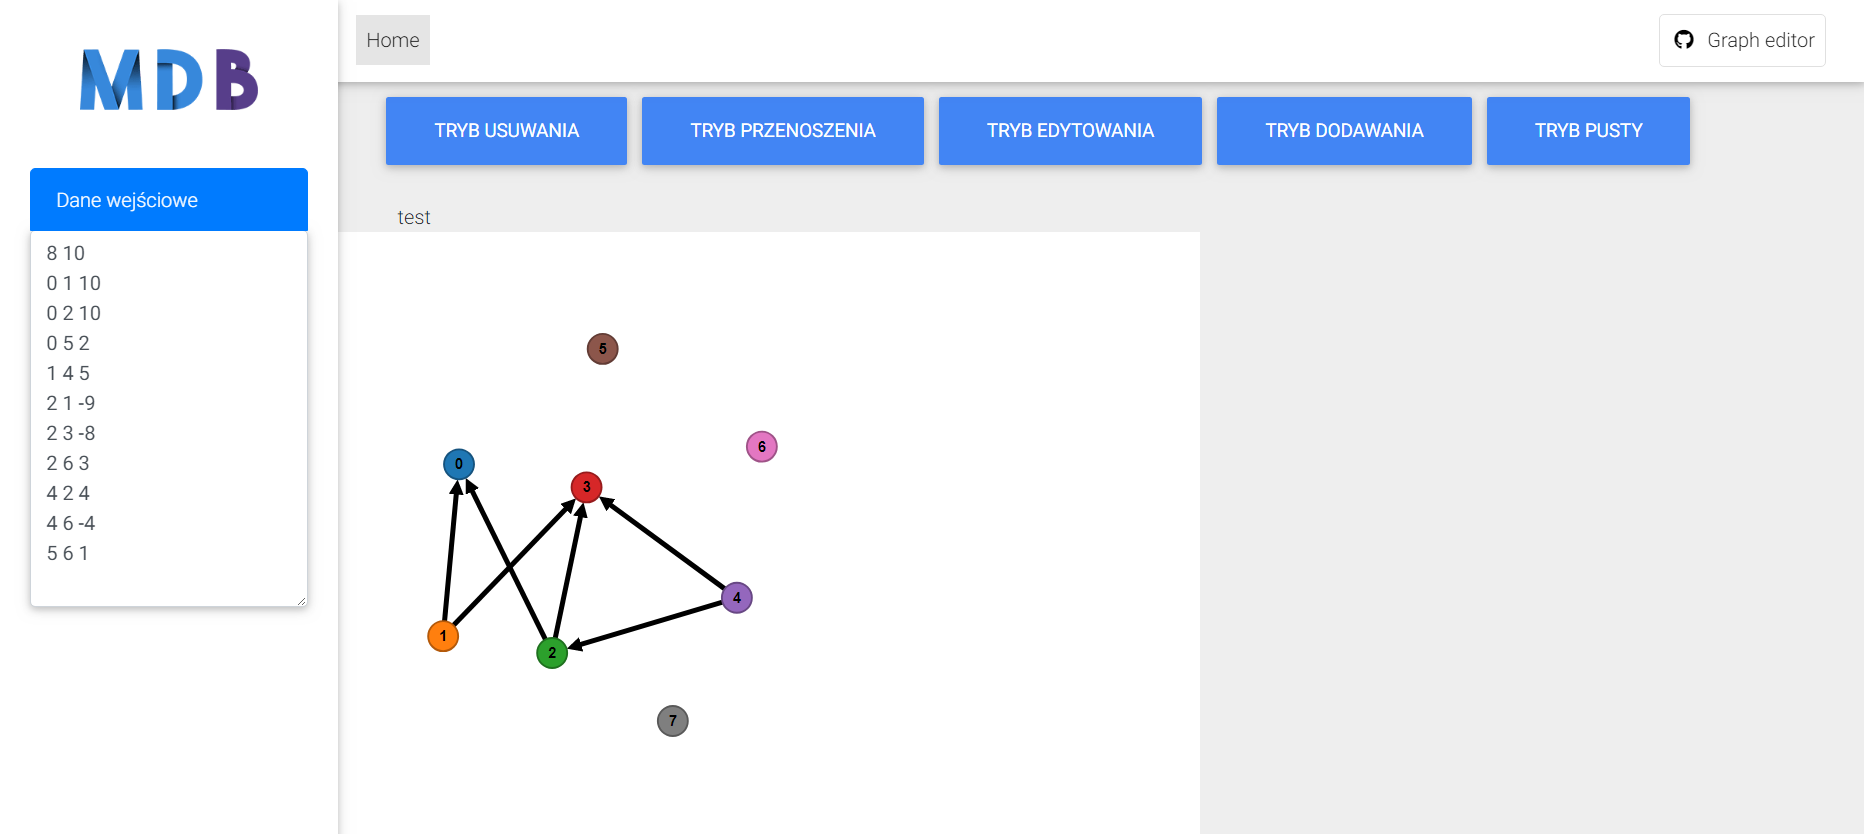
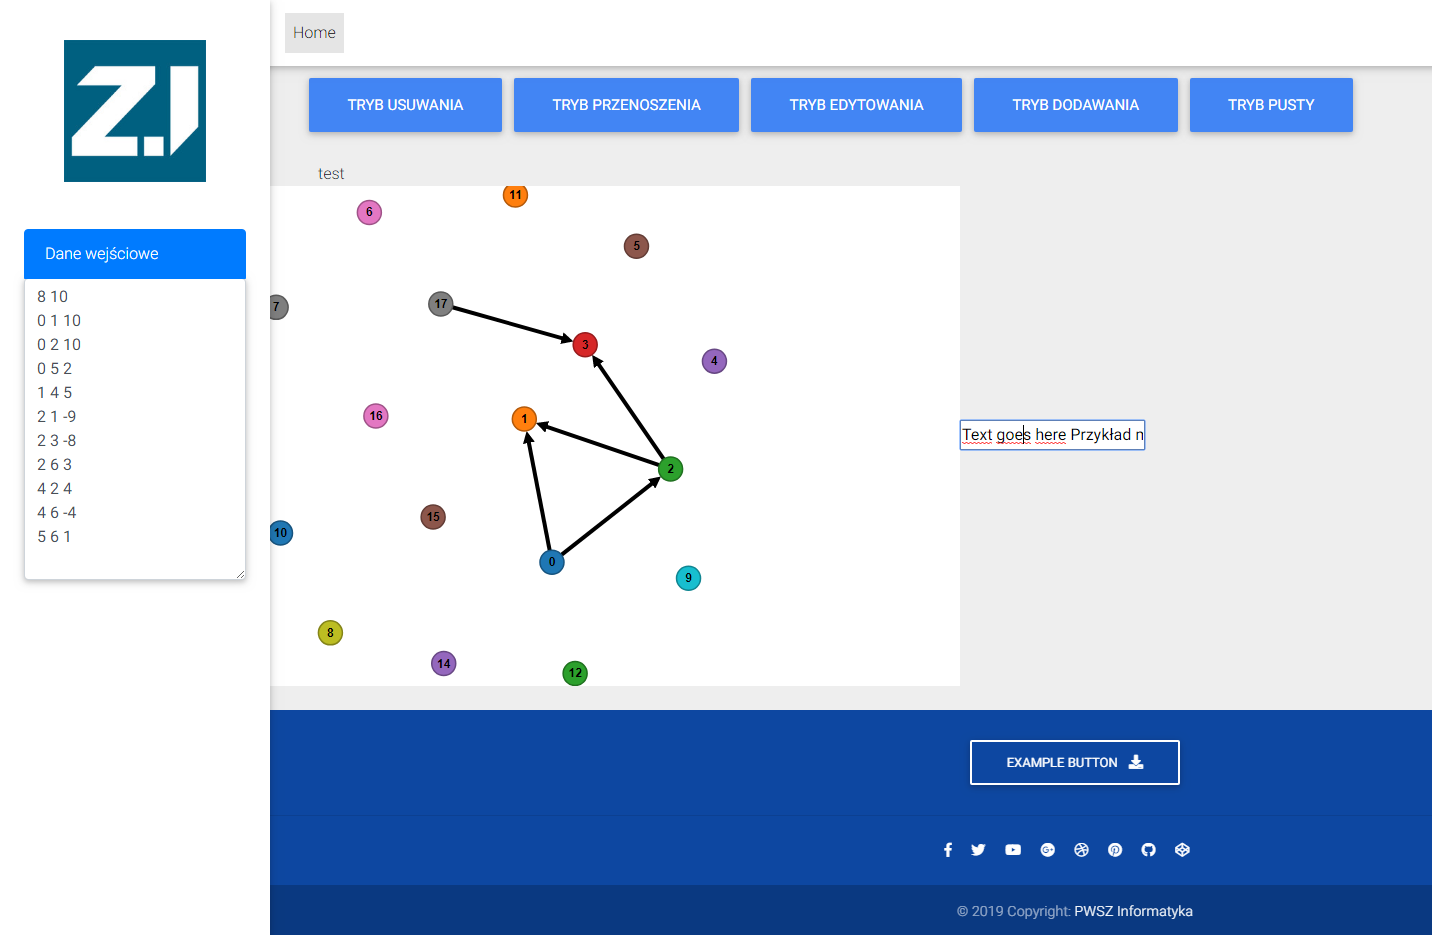
Index Backup

diff --git a/dashboard.html b/dashboard.html
@@ -5,8 +5,8 @@
   <meta charset="utf-8">
   <meta name="viewport" content="width=device-width, initial-scale=1, shrink-to-fit=no">
   <meta http-equiv="x-ua-compatible" content="ie=edge">
-  <title>Material Design Bootstrap</title>
-  <!-- Font Awesome -->
+  <title>Directed Graph Editor</title>
+  <!-- Font Awesome | Icon pack -->
   <link rel="stylesheet" href="https://use.fontawesome.com/releases/v5.8.1/css/all.css">
   <!-- Bootstrap core CSS -->
   <link href="css/bootstrap.min.css" rel="stylesheet">
@@ -14,31 +14,14 @@
   <link href="css/mdb.min.css" rel="stylesheet">
   <!-- Your custom styles (optional) -->
   <link href="css/style.min.css" rel="stylesheet">
-  <style>
-
-    .map-container{
-overflow:hidden;
-padding-bottom:56.25%;
-position:relative;
-height:0;
-}
-.map-container iframe{
-left:0;
-top:0;
-height:100%;
-width:100%;
-position:absolute;
-}
-  </style>
-
 
   <link rel="stylesheet" href="css/app.css">
 <!--  <link rel="stylesheet" href="css/main.css">-->
-  <link rel="stylesheet" href="lib/boostrap/css/bootstrap.min.css">
-  <link rel="stylesheet" href="lib/fontawensome/css/all.css">
+<!--  <link rel="stylesheet" href="lib/boostrap/css/bootstrap.min.css">-->
+<!--  <link rel="stylesheet" href="lib/fontawensome/css/all.css">-->
 
-  <script src="lib/jquery-3.3.1.min.js"></script>
-  <script src="lib/boostrap/js/bootstrap.min.js"></script>
+<!--  <script src="js/jquery-3.3.1.min.js"></script>-->
+<!--  <script src="lib/boostrap/js/bootstrap.min.js"></script>-->
 </head>
 
 <body class="grey lighten-3">
@@ -90,9 +73,8 @@ position:absolute;
     <div class="sidebar-fixed position-fixed">
 
       <a class="logo-wrapper waves-effect">
-        <img src="https://mdbootstrap.com/img/logo/mdb-email.png" class="img-fluid" alt="">
+        <img src="img/zi.jpg" class="img-fluid mh-100" alt="">
       </a>
-
 
       <div class="form-group shadow-textarea">
         <label for="textarea_in" class="list-group-item list-group-item-action waves-effect">Dane wejściowe</label>
@@ -120,12 +102,19 @@ position:absolute;
 
   <!--Main layout-->
   <main class="pt-5 mx-lg-5">      <!-- Heading -->
-    <script src="src/jsgraphs.js"></script>
-    <script src="src/main.js"> // regex, bellman-ford </script>
+<!--    <script src="src/jsgraphs.js"></script>-->
     <script src="src/d3.v5.min.js"></script>
-
     <script src="src/app.js"></script>
+<!--    <script src="src/main.js"> // regex, bellman-ford </script>-->
 
+    <script>
+      var body = d3.select('body')
+
+      body.append('input')
+              .attr('type','text')
+              .attr('name','textInput')
+              .attr('value','Text goes here Przykład możliwości')
+    </script>
 <!--    <div class="container-fluid mt-5">-->
 
 
@@ -147,18 +136,6 @@ position:absolute;
       test
       <!--Grid row-->
 
-        <!--Grid column-->
-
-        <!--Grid column-->
-
-        <!--Grid column-->
-
-<!--      </div>-->
-      <!--Grid row-->
-
-
-      <!--Grid row-->
-
   </main>
   <!--Main layout-->
 
@@ -167,15 +144,12 @@ position:absolute;
 
     <!--Call to action-->
     <div class="pt-4">
-      <a class="btn btn-outline-white" href="https://mdbootstrap.com/docs/jquery/getting-started/download/" target="_blank"
-        role="button">Download
-        MDB
+      <a class="btn btn-outline-white" href="" target="_blank"
+        role="button">Example button
+
         <i class="fas fa-download ml-2"></i>
       </a>
-      <a class="btn btn-outline-white" href="https://mdbootstrap.com/education/bootstrap/" target="_blank" role="button">Start
-        free tutorial
-        <i class="fas fa-graduation-cap ml-2"></i>
-      </a>
+
     </div>
     <!--/.Call to action-->
 
@@ -183,44 +157,18 @@ position:absolute;
 
     <!-- Social icons -->
     <div class="pb-4">
-      <a href="https://www.facebook.com/mdbootstrap" target="_blank">
-        <i class="fab fa-facebook-f mr-3"></i>
-      </a>
-
-      <a href="https://twitter.com/MDBootstrap" target="_blank">
-        <i class="fab fa-twitter mr-3"></i>
-      </a>
-
-      <a href="https://www.youtube.com/watch?v=7MUISDJ5ZZ4" target="_blank">
-        <i class="fab fa-youtube mr-3"></i>
-      </a>
-
-      <a href="https://plus.google.com/u/0/b/107863090883699620484" target="_blank">
-        <i class="fab fa-google-plus mr-3"></i>
-      </a>
-
-      <a href="https://dribbble.com/mdbootstrap" target="_blank">
-        <i class="fab fa-dribbble mr-3"></i>
-      </a>
-
-      <a href="https://pinterest.com/mdbootstrap" target="_blank">
-        <i class="fab fa-pinterest mr-3"></i>
-      </a>
 
       <a href="https://github.com/mdbootstrap/bootstrap-material-design" target="_blank">
         <i class="fab fa-github mr-3"></i>
       </a>
 
-      <a href="http://codepen.io/mdbootstrap/" target="_blank">
-        <i class="fab fa-codepen mr-3"></i>
-      </a>
     </div>
     <!-- Social icons -->
 
     <!--Copyright-->
     <div class="footer-copyright py-3">
       © 2019 Copyright:
-      <a href="https://mdbootstrap.com/education/bootstrap/" target="_blank"> MDBootstrap.com </a>
+      <a href="https:pwsztar.edu.pl?param=I" target="_blank"> PWSZ Informatyka</a>
     </div>
     <!--/.Copyright-->
 
@@ -241,66 +189,6 @@ position:absolute;
     // Animations initialization
     new WOW().init();
 
-  </script>
-
-  <!-- Charts -->
-  <script>
-    // Line
-    var ctx = document.getElementById("myChart").getContext('2d');
-    var myChart = new Chart(ctx, {
-      type: 'bar',
-      data: {
-        labels: ["Red", "Blue", "Yellow", "Green", "Purple", "Orange"],
-        datasets: [{
-          label: '# of Votes',
-          data: [12, 19, 3, 5, 2, 3],
-          backgroundColor: [
-            'rgba(255, 99, 132, 0.2)',
-            'rgba(54, 162, 235, 0.2)',
-            'rgba(255, 206, 86, 0.2)',
-            'rgba(75, 192, 192, 0.2)',
-            'rgba(153, 102, 255, 0.2)',
-            'rgba(255, 159, 64, 0.2)'
-          ],
-          borderColor: [
-            'rgba(255,99,132,1)',
-            'rgba(54, 162, 235, 1)',
-            'rgba(255, 206, 86, 1)',
-            'rgba(75, 192, 192, 1)',
-            'rgba(153, 102, 255, 1)',
-            'rgba(255, 159, 64, 1)'
-          ],
-          borderWidth: 1
-        }]
-      },
-      options: {
-        scales: {
-          yAxes: [{
-            ticks: {
-              beginAtZero: true
-            }
-          }]
-        }
-      }
-    });
-
-    //pie
-    var ctxP = document.getElementById("pieChart").getContext('2d');
-    var myPieChart = new Chart(ctxP, {
-      type: 'pie',
-      data: {
-        labels: ["Red", "Green", "Yellow", "Grey", "Dark Grey"],
-        datasets: [{
-          data: [300, 50, 100, 40, 120],
-          backgroundColor: ["#F7464A", "#46BFBD", "#FDB45C", "#949FB1", "#4D5360"],
-          hoverBackgroundColor: ["#FF5A5E", "#5AD3D1", "#FFC870", "#A8B3C5", "#616774"]
-        }]
-      },
-      options: {
-        responsive: true,
-        legend: false
-      }
-    });
   </script>
 
 </body>

diff --git a/src/app.js b/src/app.js
@@ -39,7 +39,7 @@ const force = d3.forceSimulation()
 
 // init D3 drag support
 const drag = d3.drag()
-  // Mac Firefox doesn't distinguish between left/right click when Ctrl is held... 
+  // Mac Firefox doesn't distinguish between left/right click when Ctrl is held...
   .filter(() => d3.event.button === 0  || d3.event.button === 2)
   .on('start', (d) => {
     if (!d3.event.active) force.alphaTarget(0.3).restart();
@@ -119,9 +119,9 @@ function tick() {
     const sourceY = d.source.y + (sourcePadding * normY);
     const targetX = d.target.x - (targetPadding * normX);
     const targetY = d.target.y - (targetPadding * normY);
-    
+
     return `M${sourceX},${sourceY}L${targetX},${targetY}`;
-    
+
   });
 
   circle.attr('transform', (d) => `translate(${d.x},${d.y})`);
@@ -231,17 +231,17 @@ function restart() {
 
 
       const oldLink = links.filter(p => p.source.id == source.id && p.target.id == target.id)[0];
-      
+
       if(oldLink)
         links.splice(oldLink.index, 1);
-      
+
       const link = links.filter((l) => l.source === source && l.target === target)[0];
       if (link) {
         link[isRight ? 'right' : 'left'] = true;
       } else {
         links.push({ source, target, left: !isRight, right: isRight });
       }
-      
+
       // select new link
       selectedLink = link;
       selectedNode = null;
@@ -312,7 +312,7 @@ function spliceLinksForNode(node) {
 let lastKeyDown = -1;
 
 function keydown() {
-  d3.event.preventDefault();
+  // d3.event.preventDefault(); // Zakomentowałem bo nie dało się wprowadzać danych Piotr Wawryka PS: to jedyna modyfikacja i kilka lini niżej
 
   if (lastKeyDown !== -1) return;
   lastKeyDown = d3.event.keyCode;
@@ -324,7 +324,7 @@ function keydown() {
     return;
   }
 
-  if (!selectedNode && !selectedLink) return;
+  // if (!selectedNode && !selectedLink) return; /// potrzebne do pisania
 
   switch (d3.event.keyCode) {
     case 8: // backspace
@@ -345,7 +345,7 @@ function keydown() {
         if(selectedLink.left == false && selectedLink.right == true){
           selectedLink.left = true;
           selectedLink.right = false;
-          
+
         }else{
           selectedLink.left = false;
           selectedLink.right = true;

diff --git a/index.html b/index.html
@@ -1,6 +1,6 @@
 <html>
   <head>
-   <title>Directed Graph Editor</title>
+   <title></title>
     <meta name="viewport" content="width=device-width, initial-scale=1">
     <meta charset="utf-8"/>
     <meta name="theme-color" content="#323232">
